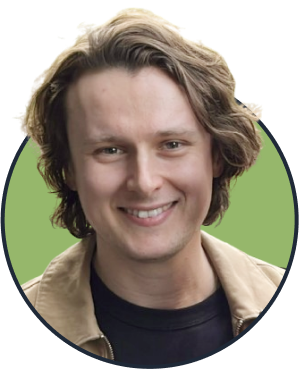
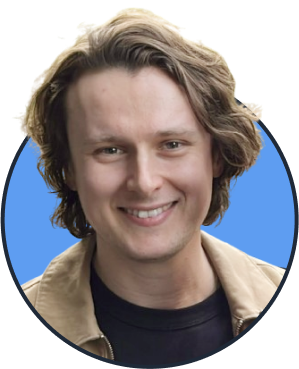
switching testimonial colors

Changed region(s): [[0.6622, 0.3279, 0.9933, 0.7453], [0.0, 0.3577, 0.2709, 0.7751]]

diff --git a/src/pages/testimonials/testimonials.ts b/src/pages/testimonials/testimonials.ts
@@ -15,7 +15,7 @@ export default function pageTestimonials(): void {
 <div class='py-24 md:py-44'>
   <x-carousel>
     <x-slide>
-      <x-quote image='${phil}' color='#5e9df1' name='Phil Callan' company='One Tree Software'>
+      <x-quote image='${phil}' color='#96b76b' name='Phil Callan' company='One Tree Software'>
         James is a great asset to any digital team: smart, knowledgeable, quick, efficient and personable. In addition to good technical skills he is also able to understand and interpret the business need. Highly recommended.
       </x-quote>
     </x-slide>
@@ -25,7 +25,7 @@ export default function pageTestimonials(): void {
       </x-quote>
     </x-slide>
     <x-slide>
-      <x-quote image='${danny}' color='#96b76b' name='Danny' company='Website client'>
+      <x-quote image='${danny}' color='#5e9df1' name='Danny' company='Website client'>
         Digital Animal were fantastic - they delivered exactly what I asked for and dealt with my amendments promptly and enthusiastically. 
       </x-quote>
     </x-slide>
